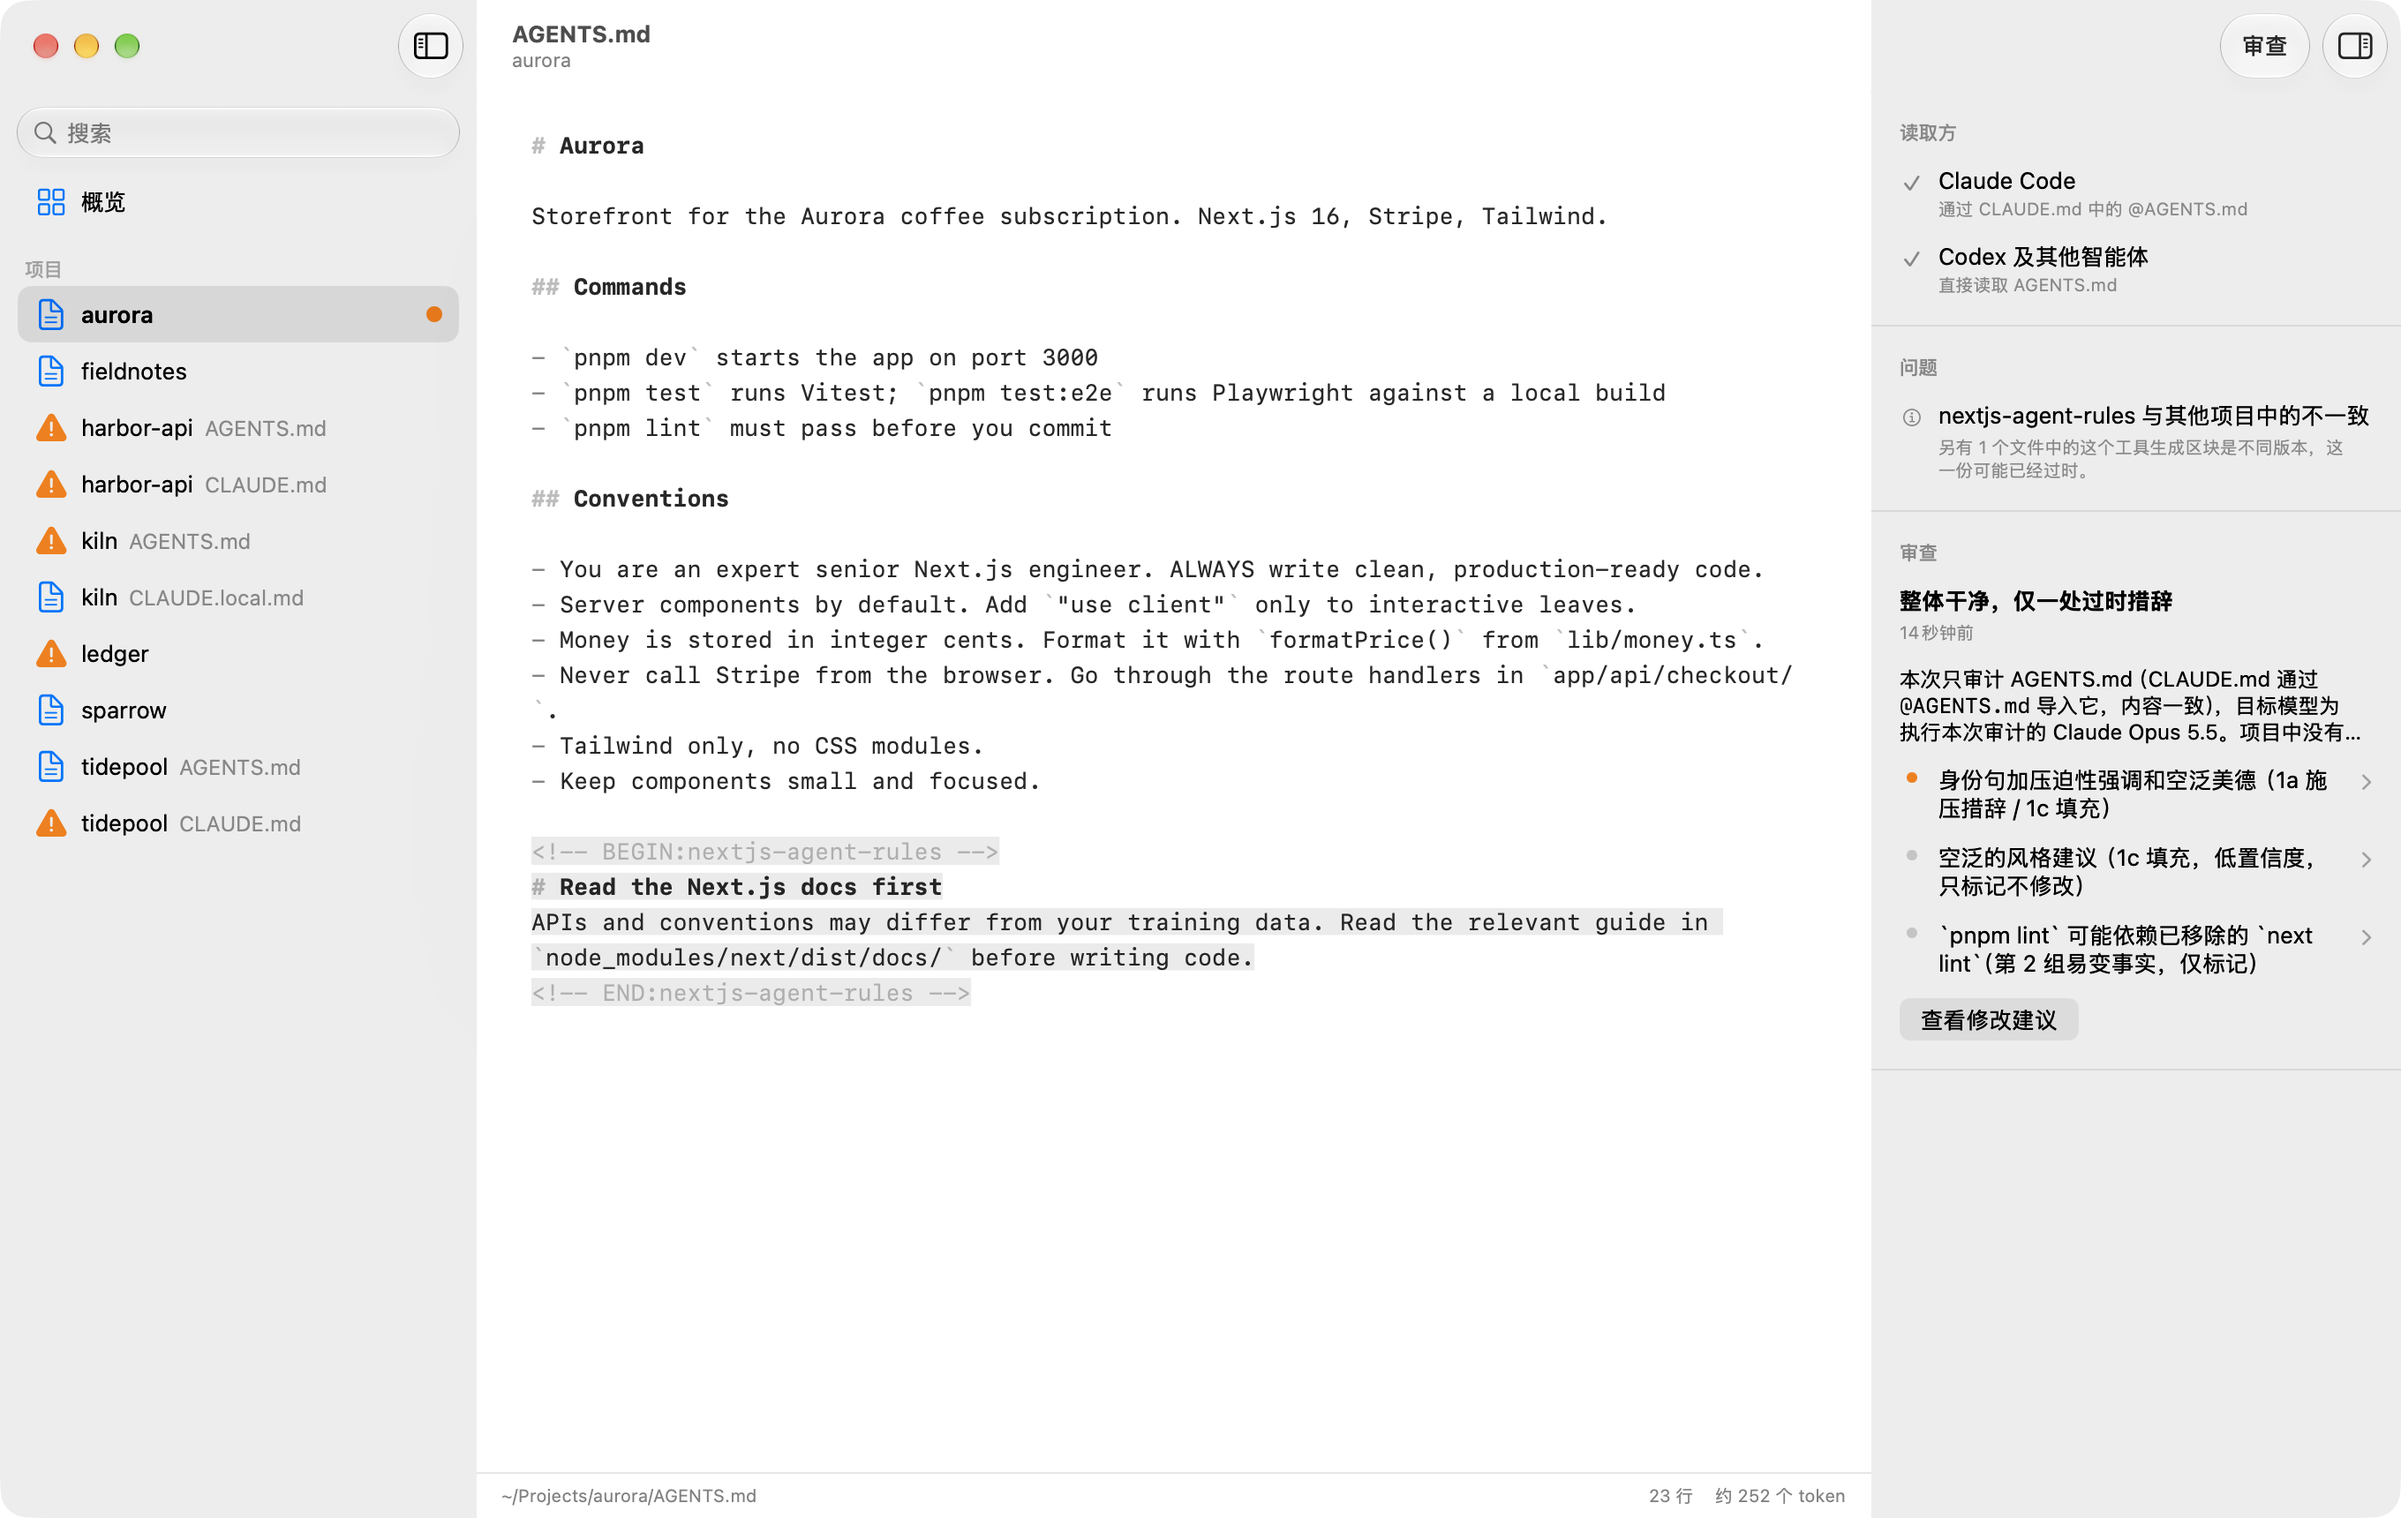
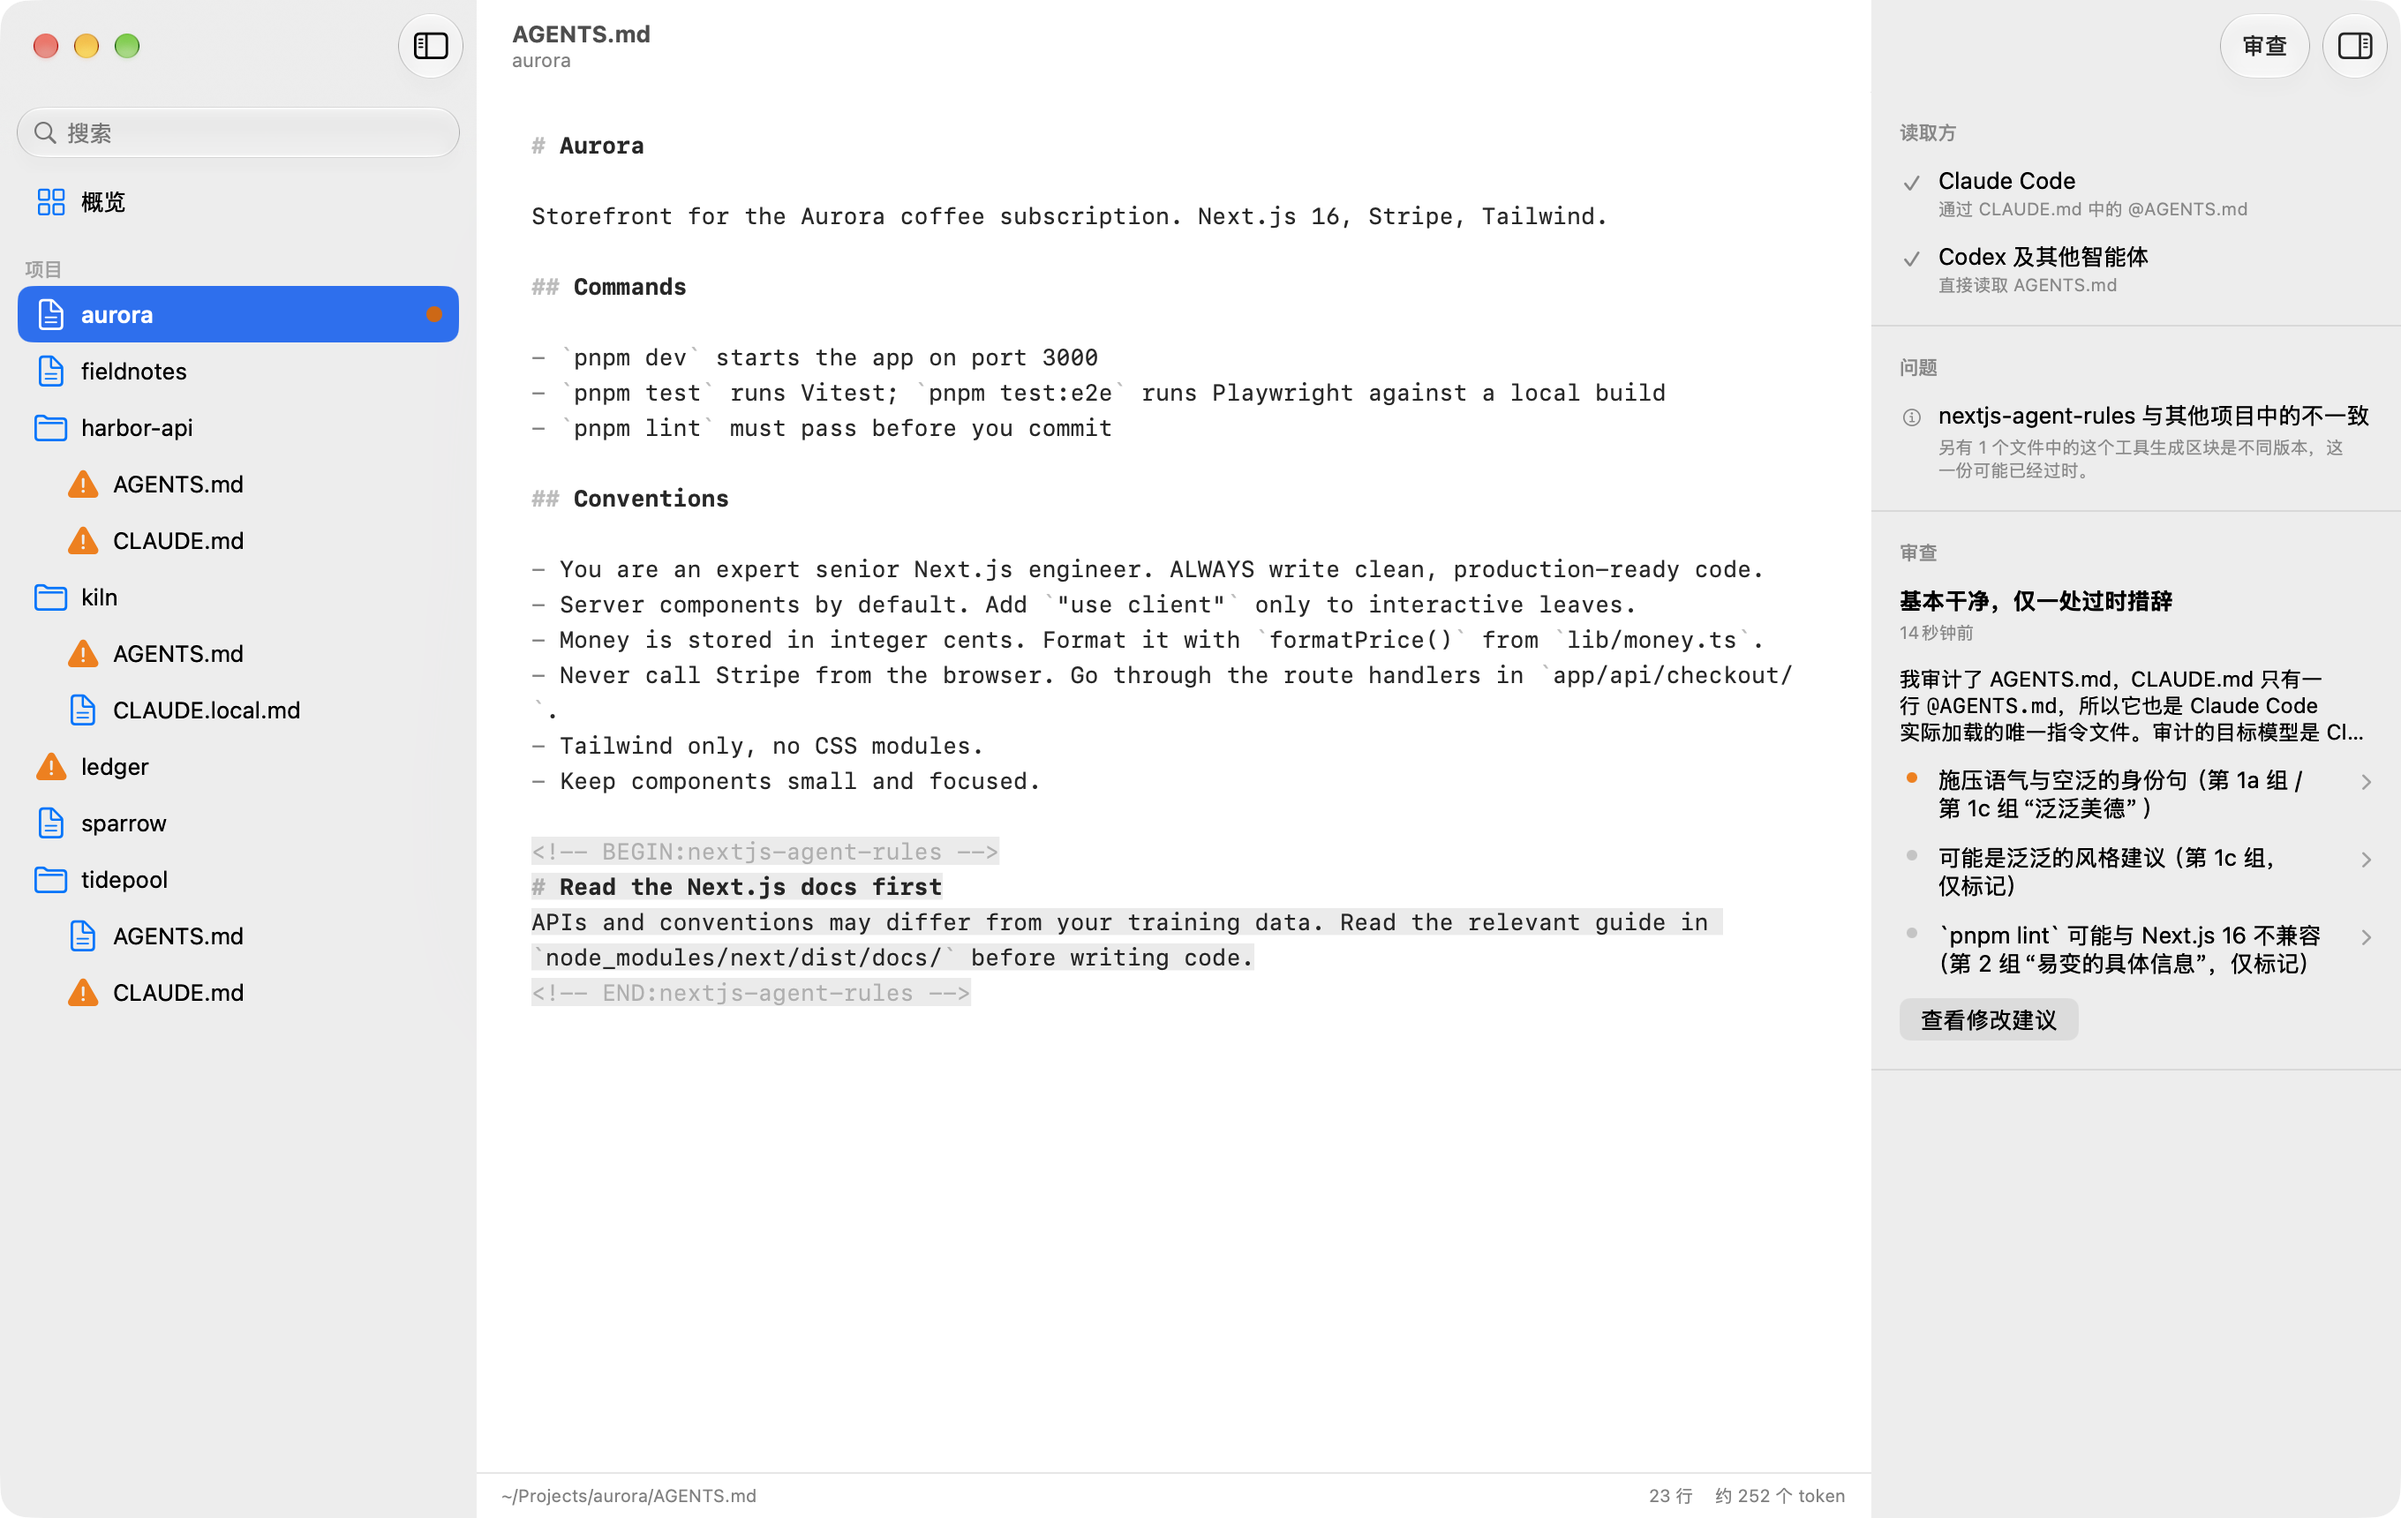
Put a project's files under its name in the sidebar, version 0.1.4
- A project with several instruction files is a folder row with its files indented beneath,
  instead of the project's name repeated on each row
- Screenshots use the default window size and a stand-in home, whatever this Mac has saved
- A release no longer waits on unfinished website work in docs/

diff --git a/Sources/Rulebook/Views/ContentView.swift b/Sources/Rulebook/Views/ContentView.swift
@@ -76,16 +76,21 @@ struct SidebarView: View {
                 Label("Overview", systemImage: "square.grid.2x2")
                     .tag(SidebarItem.overview)
             }
-            // A project is one row, named for the project. Its file is only named when it has several.
+            // A project with one file is one row, named for the project. One with several is its name with its files under it.
             let projects = model.visibleProjects
-            let crowded = Set((model.scan?.projects ?? []).filter { $0.docIDs.count > 1 }.map(\.id))
+            let grouped = Set((model.scan?.projects ?? []).filter { $0.docIDs.count > 1 }.map(\.id))
             ForEach(projects.filter(\.isGlobal)) { project in
                 Section(project.name) { rows(project, naming: .file) }
             }
             if projects.contains(where: { !$0.isGlobal }) {
                 Section("Projects") {
                     ForEach(projects.filter { !$0.isGlobal }) { project in
-                        rows(project, naming: crowded.contains(project.id) ? .both : .project)
+                        if grouped.contains(project.id) {
+                            Label(project.name, systemImage: "folder").selectionDisabled()
+                            rows(project, naming: .file).padding(.leading, 18)
+                        } else {
+                            rows(project, naming: .project)
+                        }
                     }
                 }
             }
@@ -114,8 +119,8 @@ struct SidebarView: View {
 }
 
 struct DocRow: View {
-    /// What a row is called: its file, its project, or the project with the file beside it.
-    enum Naming { case file, project, both }
+    /// What a row is called: its file, or its project when it's the project's only file.
+    enum Naming { case file, project }
 
     let doc: Doc
     var naming: Naming = .file
@@ -124,14 +129,7 @@ struct DocRow: View {
     var body: some View {
         HStack(spacing: 6) {
             Label {
-                HStack(alignment: .firstTextBaseline, spacing: 6) {
-                    Text(naming == .file ? doc.title : doc.projectName)
-                        .lineLimit(1).truncationMode(.middle).layoutPriority(1)
-                    if naming == .both {
-                        Text(doc.title).lineLimit(1).truncationMode(.middle)
-                            .font(.callout).foregroundStyle(.secondary)
-                    }
-                }
+                Text(naming == .file ? doc.title : doc.projectName).lineLimit(1).truncationMode(.middle)
             } icon: {
                 if let issue = doc.topIssue {
                     Image(systemName: issue.severity.icon).foregroundStyle(issue.severity.color)

diff --git a/Sources/Rulebook/App/RulebookApp.swift b/Sources/Rulebook/App/RulebookApp.swift
@@ -45,6 +45,15 @@ final class AppDelegate: NSObject, NSApplicationDelegate {
             // Come to the front first, so the windows are drawn as active ones.
             DispatchQueue.main.asyncAfter(deadline: .now() + 3) {
                 NSRunningApplication.current.activate(options: [.activateAllWindows])
+                // The main window opens the size it was last left on this Mac. Pictures get the default size,
+                // and the saved one is left alone.
+                for window in NSApp.windows where window.identifier?.rawValue.hasPrefix("main") == true {
+                    window.setFrameAutosaveName("")
+                    var frame = window.frame
+                    frame.origin.y += frame.height - 860
+                    frame.size = NSSize(width: 1360, height: 860)
+                    window.setFrame(frame, display: true)
+                }
             }
             DispatchQueue.main.asyncAfter(deadline: .now() + 3.6) {
                 try? FileManager.default.createDirectory(at: dir, withIntermediateDirectories: true)
